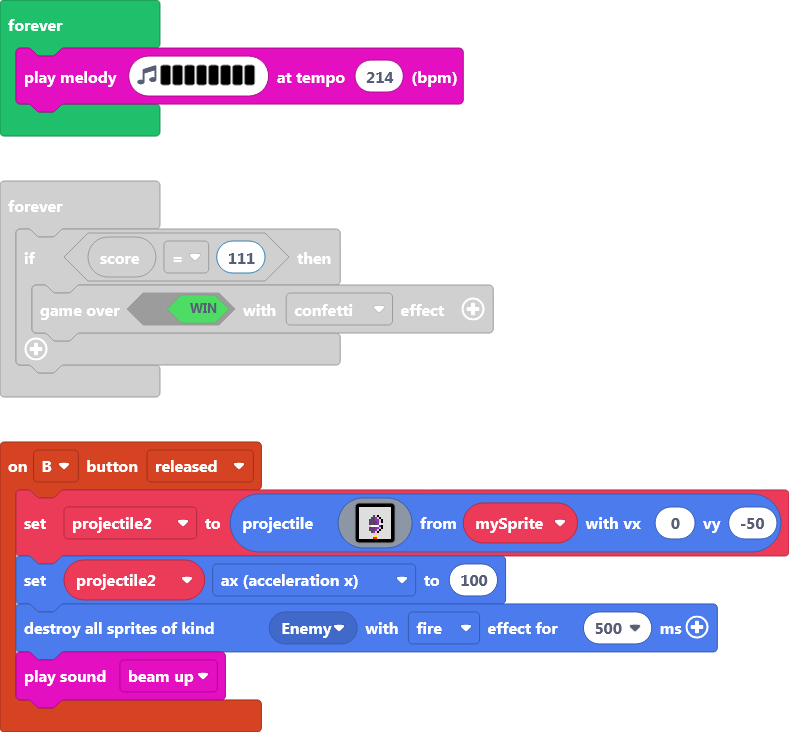
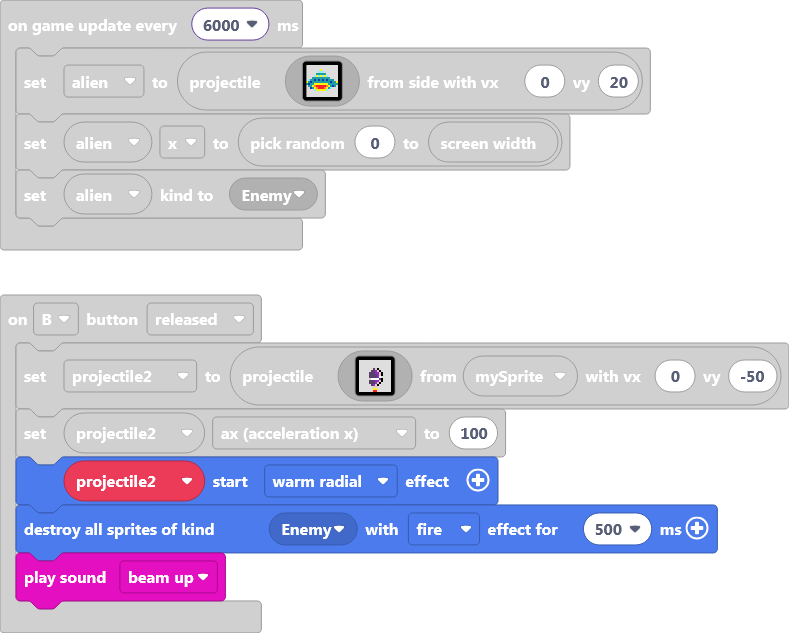
se le añade efecto bomba atomica precionando el boton B

diff --git a/main.ts b/main.ts
@@ -10,6 +10,7 @@ sprites.onOverlap(SpriteKind.Enemy, SpriteKind.Projectile, function (sprite, oth
 controller.B.onEvent(ControllerButtonEvent.Released, function () {
     projectile2 = sprites.createProjectileFromSprite(assets.image`bomb`, mySprite, 0, -50)
     projectile2.ax = 100
+    projectile2.startEffect(effects.warmRadial)
     sprites.destroyAllSpritesOfKind(SpriteKind.Enemy, effects.fire, 500)
     music.beamUp.play()
 })
@@ -38,11 +39,6 @@ game.onUpdateInterval(1000, function () {
     misil.x = randint(0, scene.screenWidth())
     misil.setKind(SpriteKind.Enemy)
 })
-game.onUpdateInterval(1000, function () {
-    alien = sprites.createProjectileFromSide(assets.image`ufo`, 0, 20)
-    alien.x = randint(0, scene.screenWidth())
-    alien.setKind(SpriteKind.Enemy)
-})
 forever(function () {
     music.playMelody("B - A - F E F D ", 214)
 })
@@ -50,4 +46,9 @@ forever(function () {
     if (info.score() == 111) {
         game.over(true, effects.confetti)
     }
+})
+game.onUpdateInterval(6000, function () {
+    alien = sprites.createProjectileFromSide(assets.image`ufo`, 0, 20)
+    alien.x = randint(0, scene.screenWidth())
+    alien.setKind(SpriteKind.Enemy)
 })
